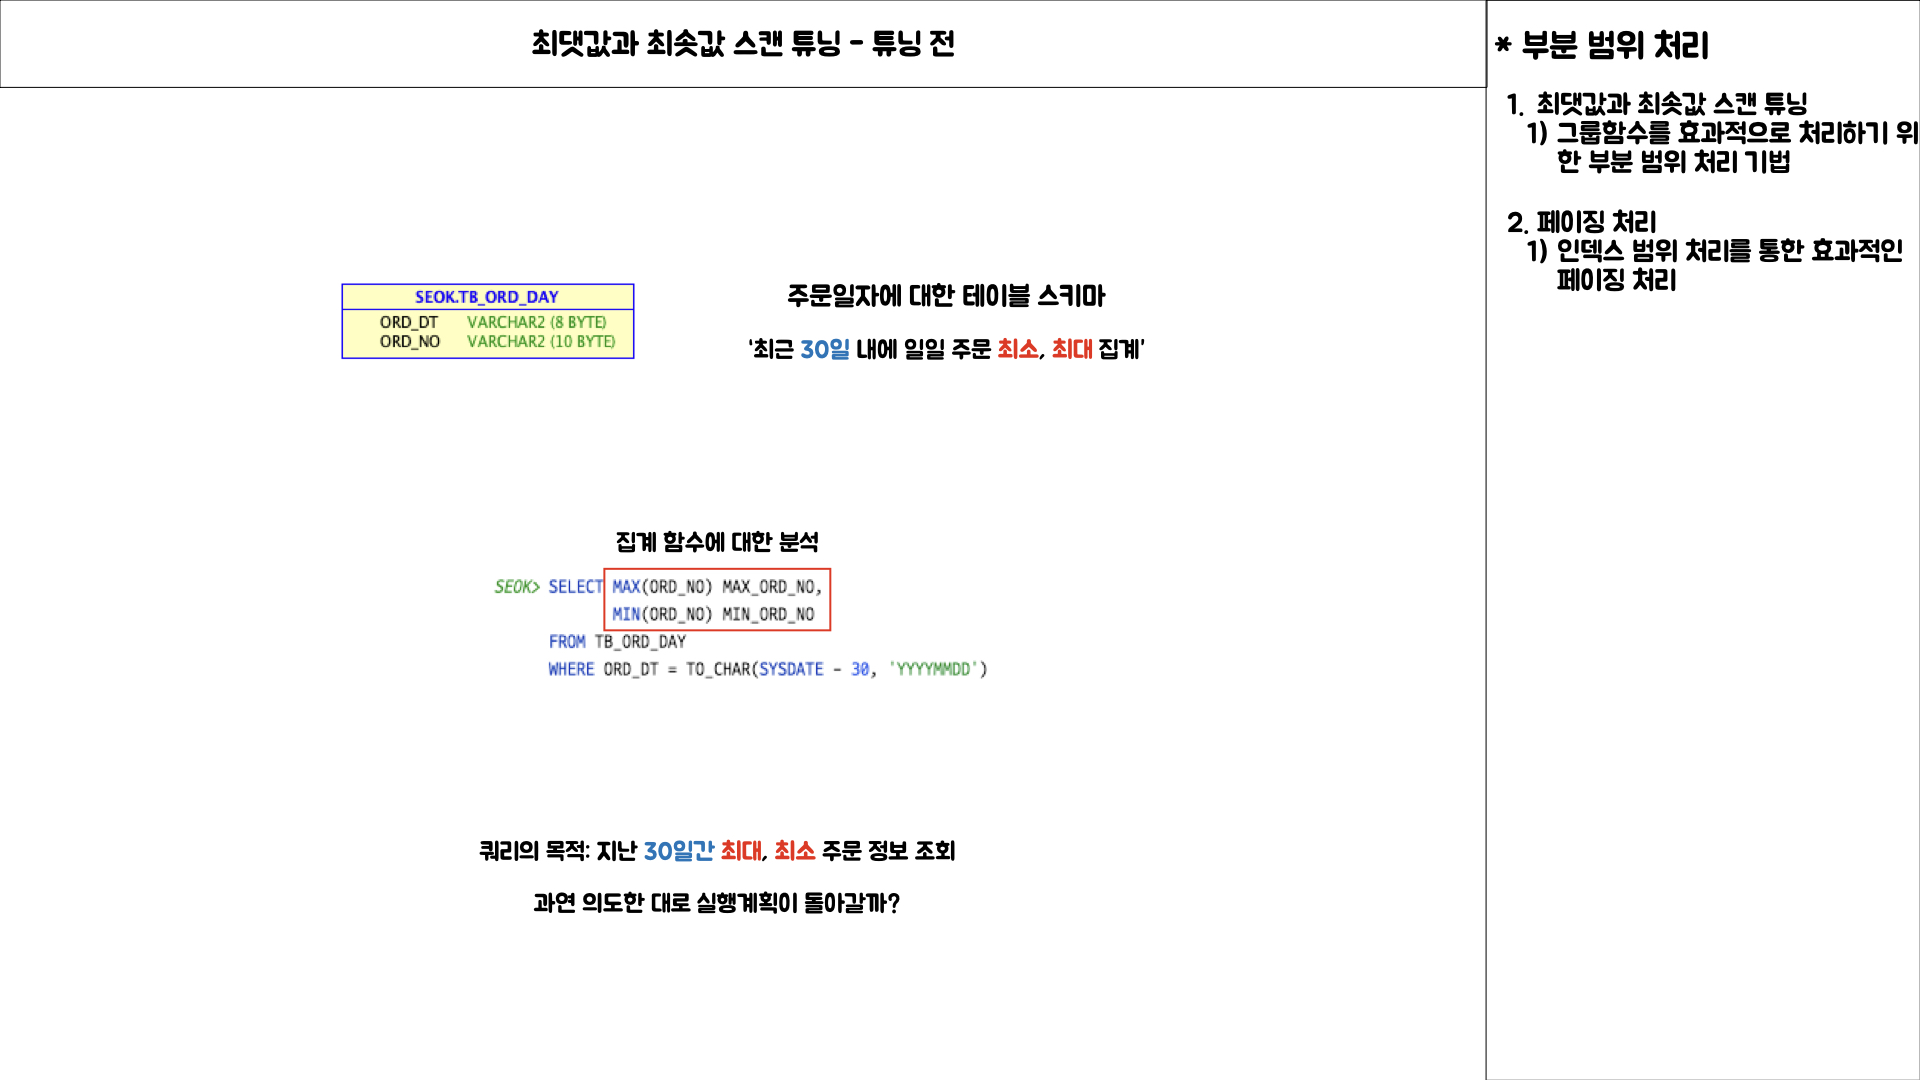
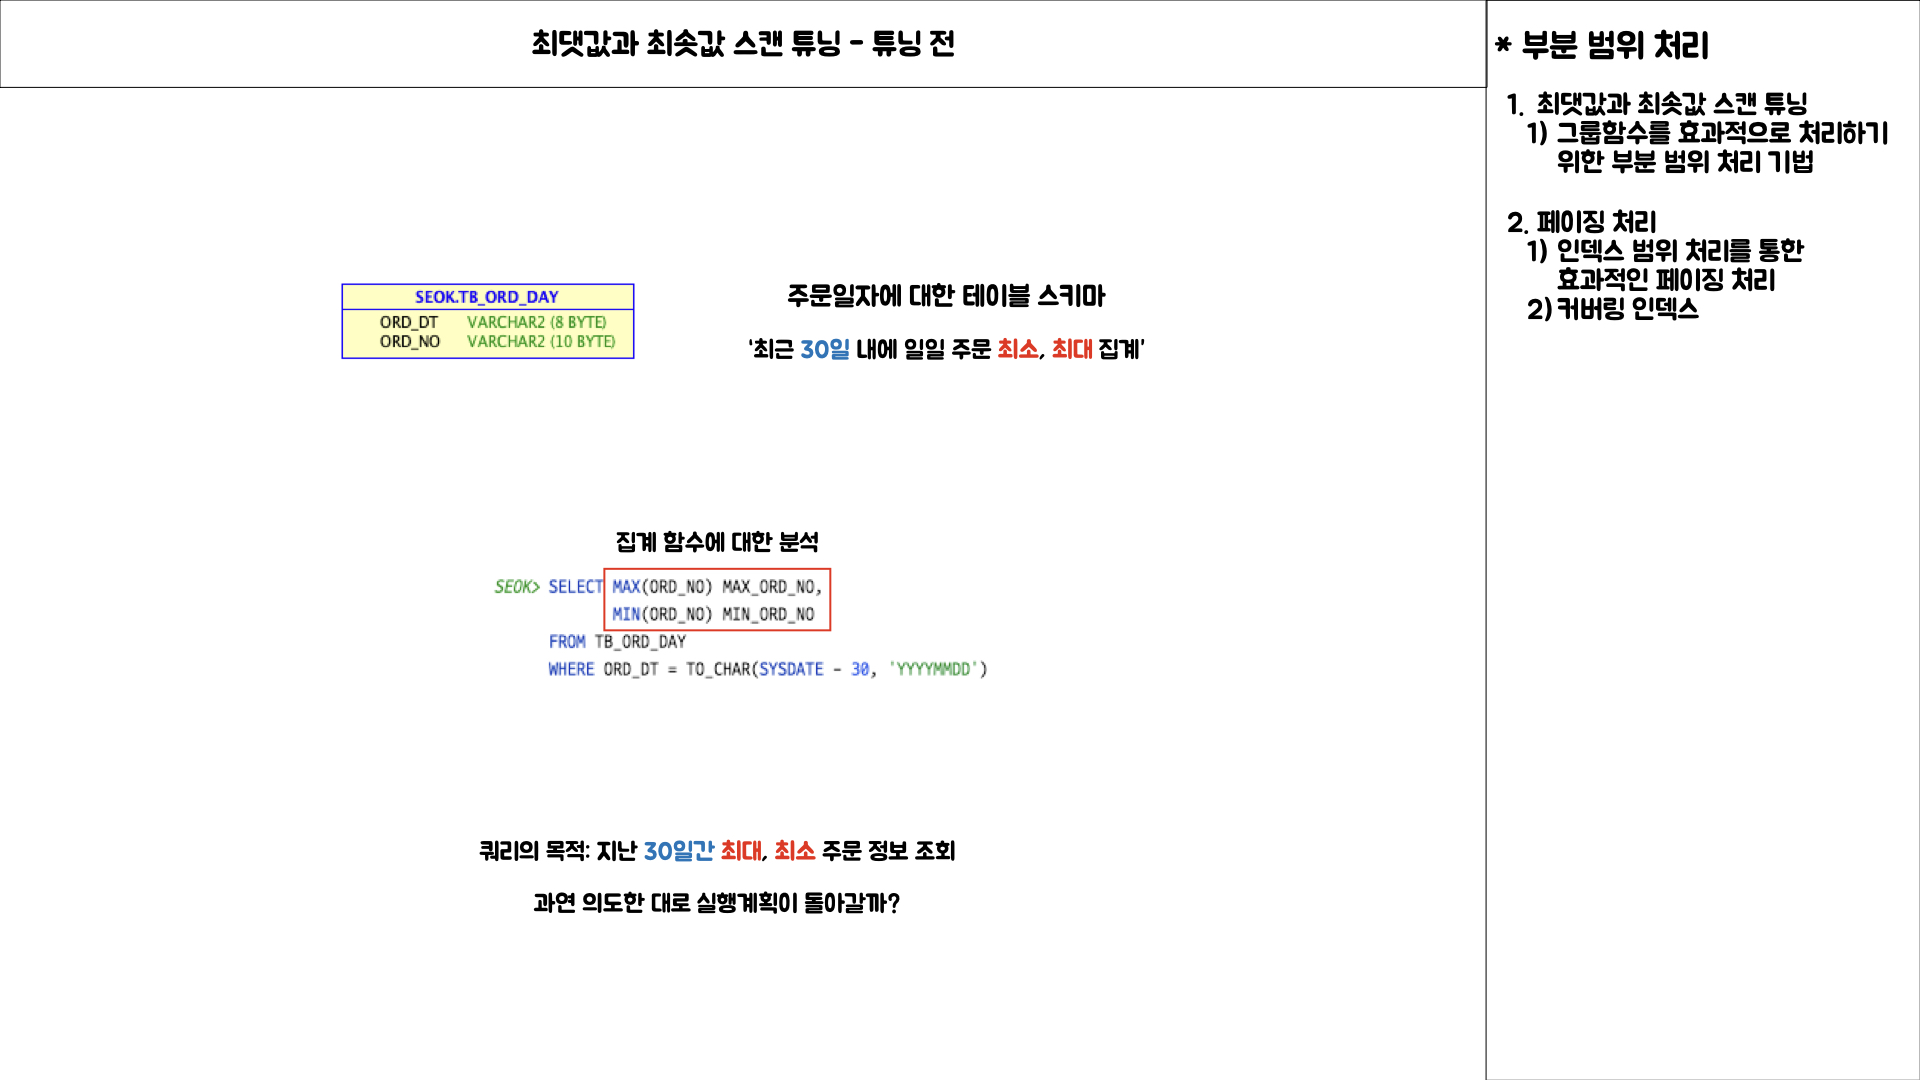
refactor: covering index

Changed region(s): [[0.8125, 0.1222, 0.9375, 0.1833], [0.7812, 0.2444, 0.9375, 0.3056], [0.9375, 0.2139, 1.0, 0.2444]]

diff --git a/infra/middleware/database/easy_db/contents/2021-08-21-db-partial.md b/infra/middleware/database/easy_db/contents/2021-08-21-db-partial.md
@@ -132,3 +132,19 @@ WHERE ROWNUM <= 3;
 > **페이징 처리 튜닝 후 실행 계획**
 
 ![튜닝 후 쿼리 실행 계획](../../images/oracle/partial_range_process/partial_range_process.010.jpeg)
+
+## 페이징 처리 커버링 인덱스 튜닝
+
+> **페이징 처리 - 커버링 인덱스 생성**
+
+![페이징 처리 - 커버링 인덱스](../../images/oracle/partial_range_process/partial_range_process.013.jpeg)
+
+- 조회 쿼리에 포함된 컬럼이 모두 포함되어 있는 인덱스를 생성
+	- 인덱스의 순서와 컬럼의 정렬에 대한 설정도 중요
+
+> **페이징 처리 - 커버링 인덱스 실행 계획**
+
+![페이징 처리 - 커버링 인덱스 실행 계획](../../images/oracle/partial_range_process/partial_range_process.014.jpeg)
+
+- SELECT, WHERE, ORDER BY, GROUP BY 등등 쿼리에 속한 컬럼이 모두 포함된 인덱스로 쿼리를 조회하는 경우 실행계획에 테이블에 접근하는 내용이 사라진다.
+- 결국 데이터 파일에 접근하는 비용이 감소되어 효율적인 조회가 가능하다.
